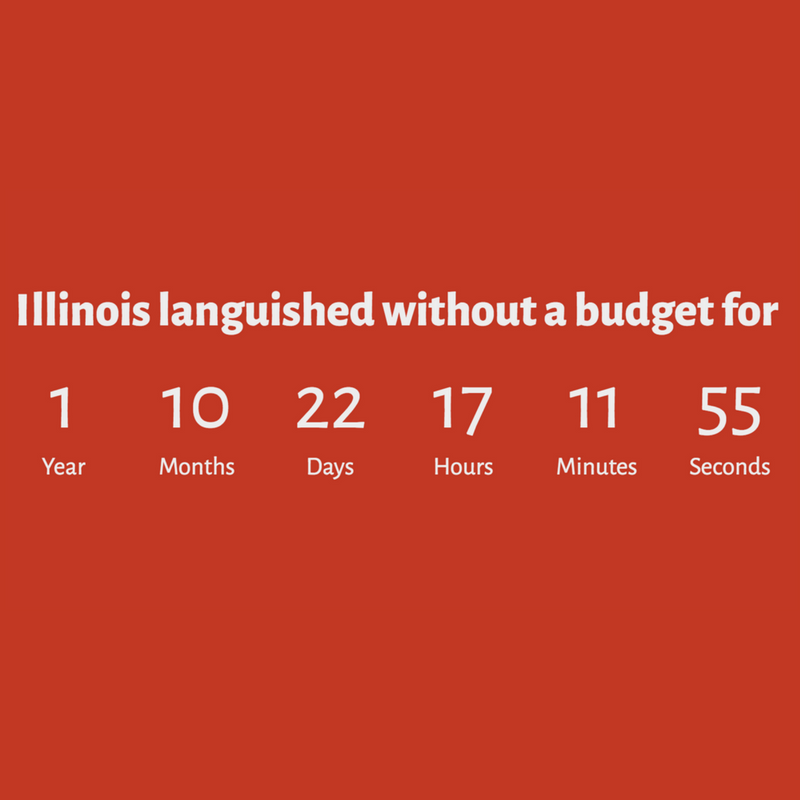
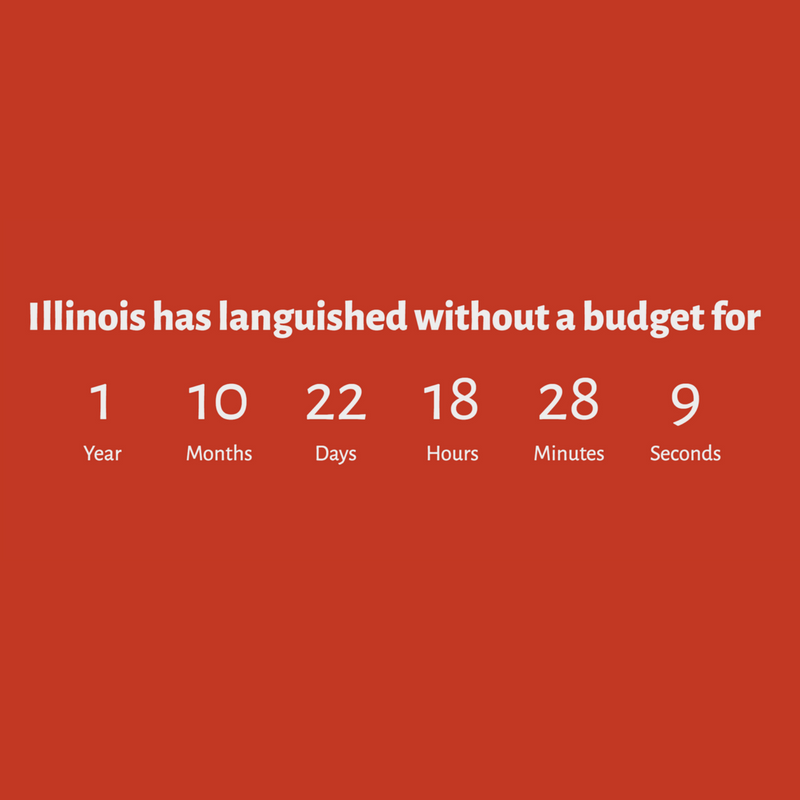
updated thumbnail and social media description

diff --git a/_layouts/default.html b/_layouts/default.html
@@ -6,14 +6,14 @@
         
         <title>Illinois Budget Clock</title>
         
-        <meta name="description" content="Illinois languished without a budget since July 1st, 2015.">
+        <meta name="description" content="Illinois has languished without a budget since July 1st, 2015.">
         <meta name="author" content="Chi Hack Night">
         <meta name="viewport" content="width=device-width, initial-scale=1">
 
         <meta property="og:site_name" content="Illinois Budget Clock">
         <meta property="og:title" content="Illinois Budget Clock">
         <meta property="og:type" content="website">
-        <meta property="og:description" content="Illinois languished without a budget since July 1st, 2015.">
+        <meta property="og:description" content="Illinois has languished without a budget since July 1st, 2015.">
         <meta property="og:url" content="http://ilbudgetclock.com/">
         <meta property="og:image" content="http://ilbudgetclock.com/images/thumbnail.png">
 
@@ -21,7 +21,7 @@
         <meta name="twitter:card" content="summary_large_image">
         <meta name="twitter:site" content="@chihacknight">
         <meta name="twitter:creator" content="@chihacknight">
-        <meta name="twitter:description" content="Illinois languished without a budget since July 1st, 2015.">
+        <meta name="twitter:description" content="Illinois has languished without a budget since July 1st, 2015.">
         <meta name="twitter:title" content="Illinois Budget Clock">
         <meta name="twitter:url" content="http://ilbudgetclock.com/">
         <meta name="twitter:image:src" content="http://ilbudgetclock.com/images/thumbnail.png">
